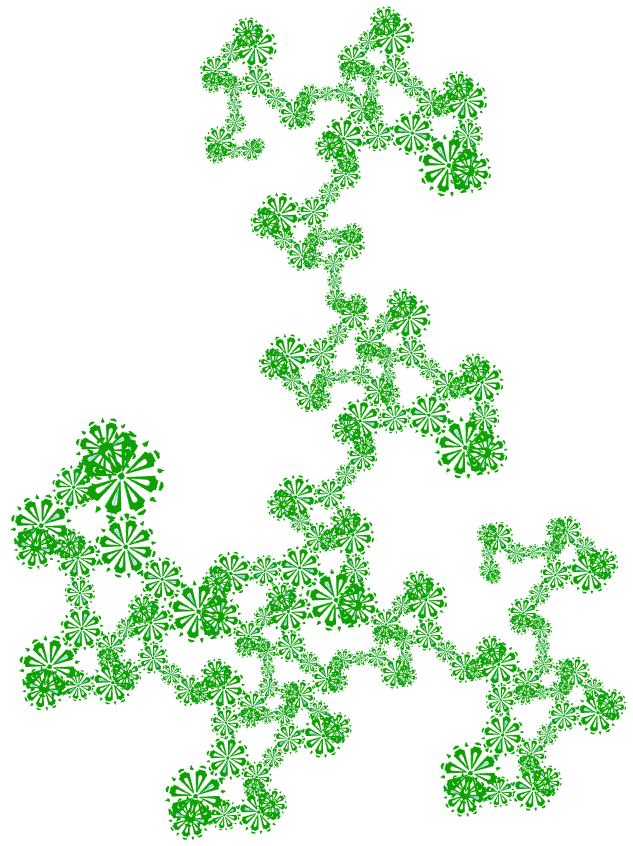
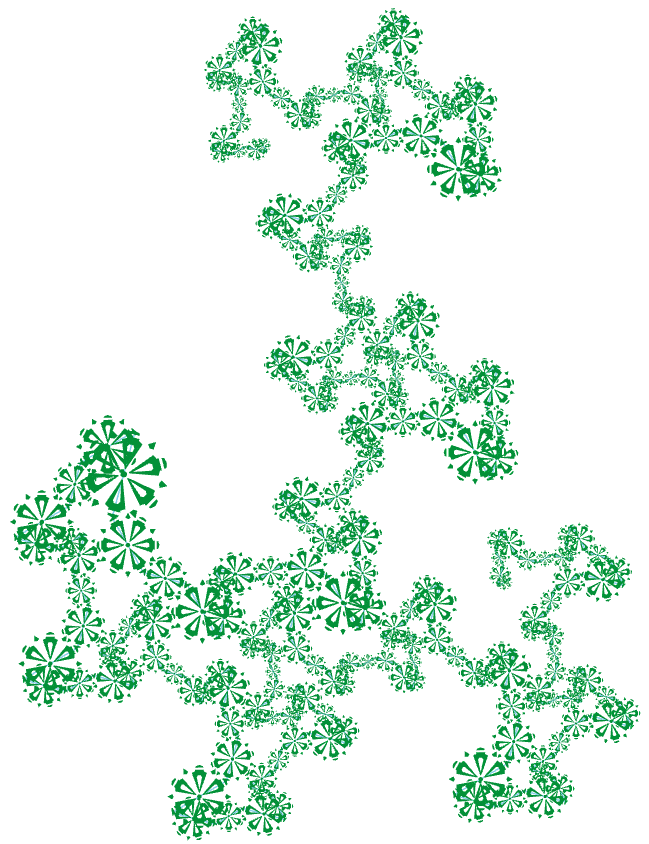
update

Changed region(s): [[0.0, 0.0, 0.9905, 1.0]]

diff --git a/holidaytree/vr/curve120a.htm b/holidaytree/vr/curve120a.htm
@@ -20,8 +20,8 @@
 			<a-mixin id="p4a" position="0 2.448 0" rotation="0 0 180" mixin="sc"></a-mixin>
 			<a-mixin id="p5a" position="0.353 1.836 0" rotation="0 0 60" mixin="sc"></a-mixin>
 						
-			<a-mixin id="sc" scale="0.2778 0.2778 0.3778"></a-mixin>
-			<a-mixin id="sc1" scale="0.4772 0.4772 0.5772"></a-mixin>
+			<a-mixin id="sc" scale="0.2778 0.2778 0.5778"></a-mixin>
+			<a-mixin id="sc1" scale="0.4772 0.4772 0.7772"></a-mixin>
 			<!--SCALE = scale de MTL4 * 0.475 e 0.816 -->
 			<a-mixin scale="1.71 1.71 1.71" rotation="0 0 0" id="ar" line__0="start: -1.5 0 0; end: 1.5 0 0; color: skyblue"></a-mixin><!--SCALE = inverso do scale de MTL4 -->
 			

diff --git a/holidaytree/vr/curve120.htm b/holidaytree/vr/curve120.htm
@@ -20,8 +20,8 @@
 			<a-mixin id="p4a" position="0 2.448 0" rotation="0 0 180" mixin="sc"></a-mixin>
 			<a-mixin id="p5a" position="0.353 1.836 0" rotation="0 0 60" mixin="sc"></a-mixin>
 						
-			<a-mixin id="sc" scale="0.2375 0.2375 0.4675"></a-mixin>
-			<a-mixin id="sc1" scale="0.408 0.408 0.818"></a-mixin>
+			<a-mixin id="sc" scale="0.2375 0.2375 0.5675"></a-mixin>
+			<a-mixin id="sc1" scale="0.408 0.408 0.918"></a-mixin>
 			<!--SCALE = scale de MTL4 * 0.475 e 0.816 -->
 			<a-mixin scale="2 2 2" rotation="0 0 0" id="ar" line__0="start: -1.5 0 0; end: 1.5 0 0; color: skyblue"></a-mixin><!--SCALE = inverso do scale de MTL4 -->
 			
